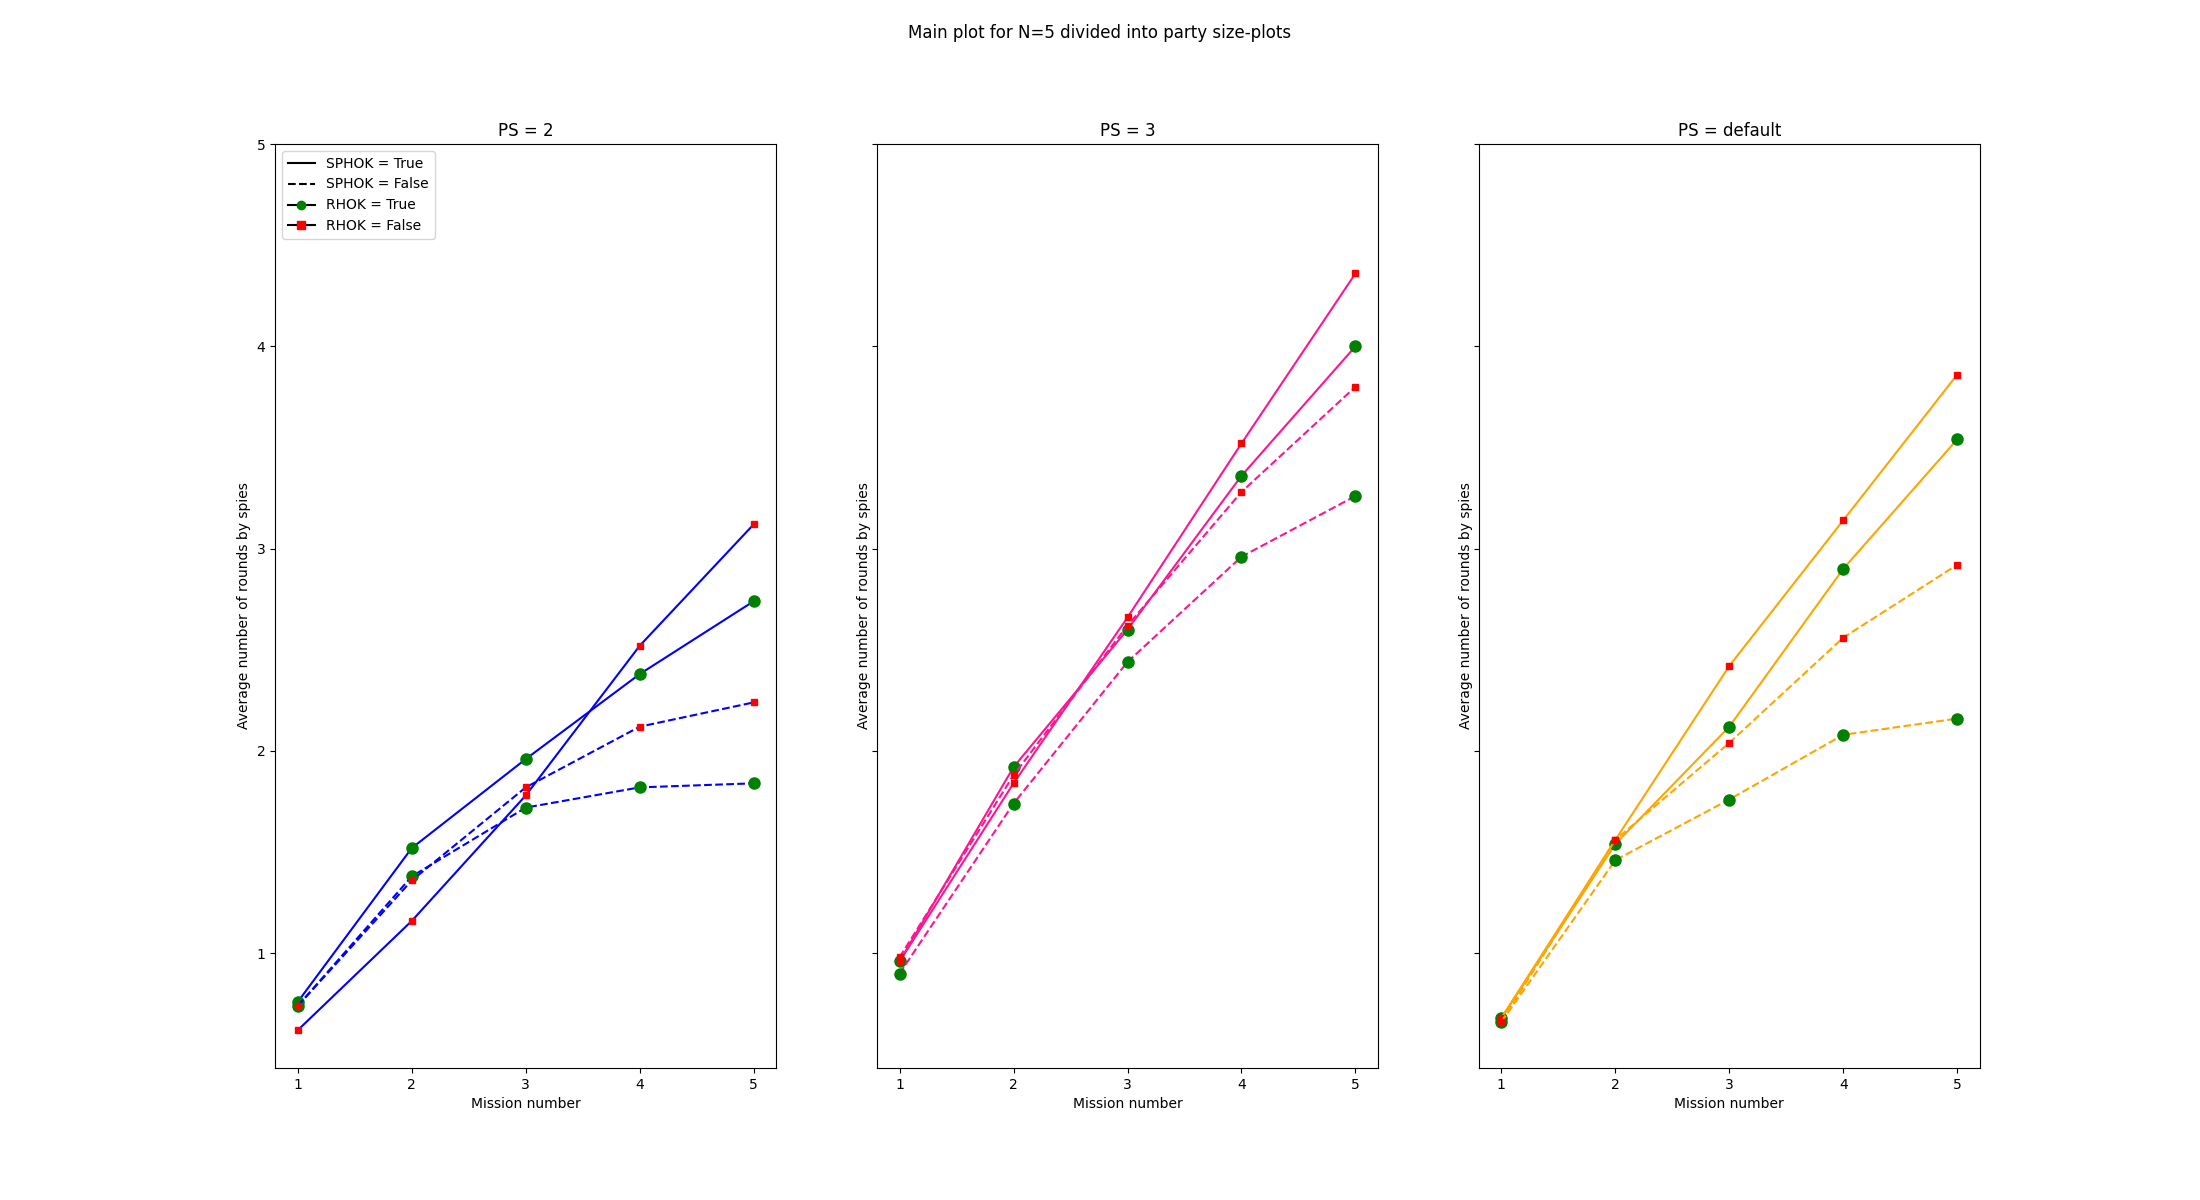
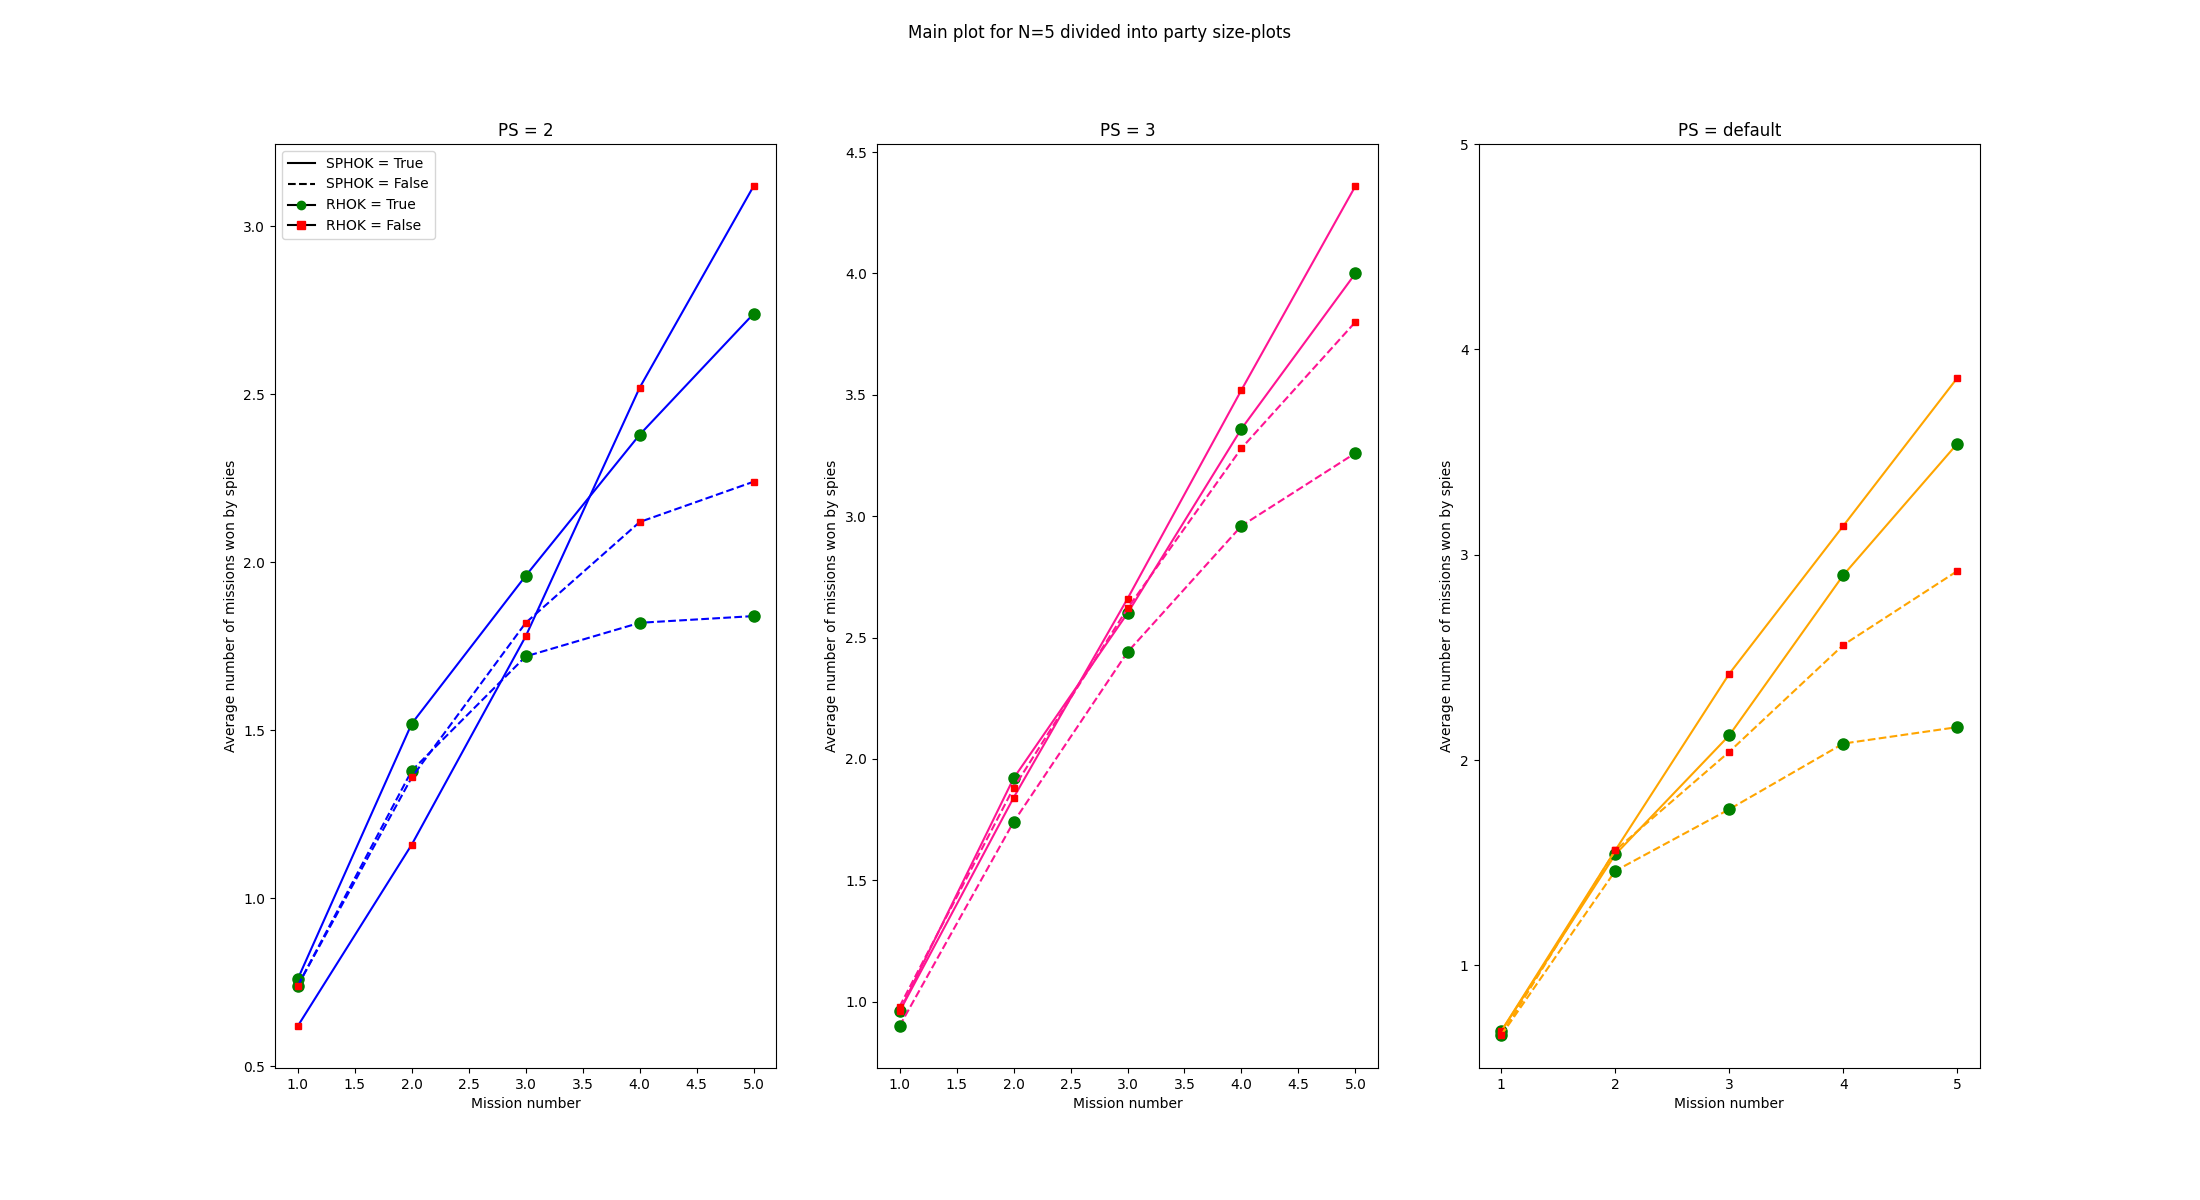
Fix graph axes, new figures

diff --git a/results/graph.py b/results/graph.py
@@ -98,7 +98,7 @@ def make_main_chart_5(df):
     plt.legend(handles=legend_elements, loc='upper left')
     plt.title('Results for N = 5')
     plt.xlabel('Mission number')
-    plt.ylabel('Average number of rounds won by spies')
+    plt.ylabel('Average number of missions won by spies')
     plt.xticks(x)
     plt.yticks(x)
     plt.savefig('figure_n5.png')
@@ -124,7 +124,7 @@ def make_subcharts_5(df):
                color='black', label='RHOK = True'),
         Line2D([0], [0], marker='s', mec='red', mfc='red', color='black', label='RHOK = False')
     ]
-    fig, axs = plt.subplots(1, 3, sharex=True, sharey=True, figsize=(22, 12))
+    fig, axs = plt.subplots(1, 3, figsize=(22, 12))
     for i in range(12):
         sphok, rhok, ps = p[i]
         line, mark, marks, markc, z = determine_style(sphok, rhok)
@@ -146,9 +146,9 @@ def make_subcharts_5(df):
     axs[0].set_xlabel("Mission number")
     axs[1].set_xlabel("Mission number")
     axs[2].set_xlabel("Mission number")
-    axs[0].set_ylabel('Average number of rounds by spies')
-    axs[1].set_ylabel('Average number of rounds by spies')
-    axs[2].set_ylabel('Average number of rounds by spies')
+    axs[0].set_ylabel('Average number of missions won by spies')
+    axs[1].set_ylabel('Average number of missions won by spies')
+    axs[2].set_ylabel('Average number of missions won by spies')
     plt.xticks(x)
     plt.yticks(x)
     plt.savefig('figure_subn5.png')
@@ -182,7 +182,7 @@ def make_line_chart_6(df):
     plt.legend(handles=legend_elements, loc='upper left')
     plt.title('Results for N = 6')
     plt.xlabel('Mission number')
-    plt.ylabel('Average number of rounds by spies')
+    plt.ylabel('Average number of missions won by spies')
     plt.xticks(x)
     plt.yticks(x)
     plt.savefig('figure_n6.png')
